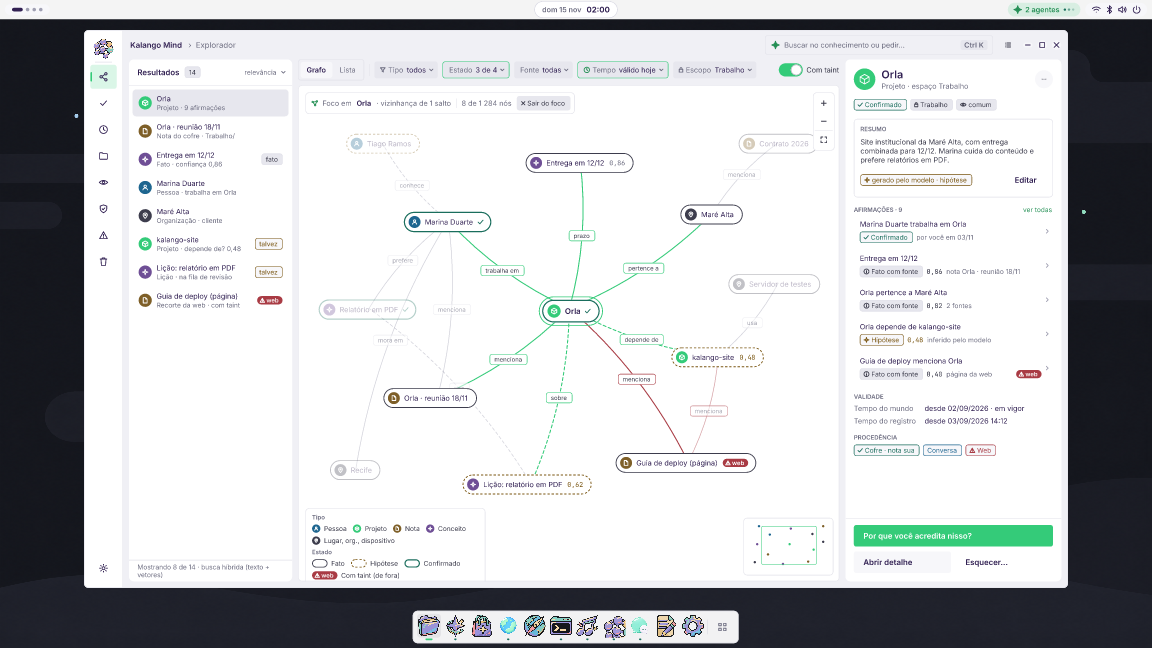
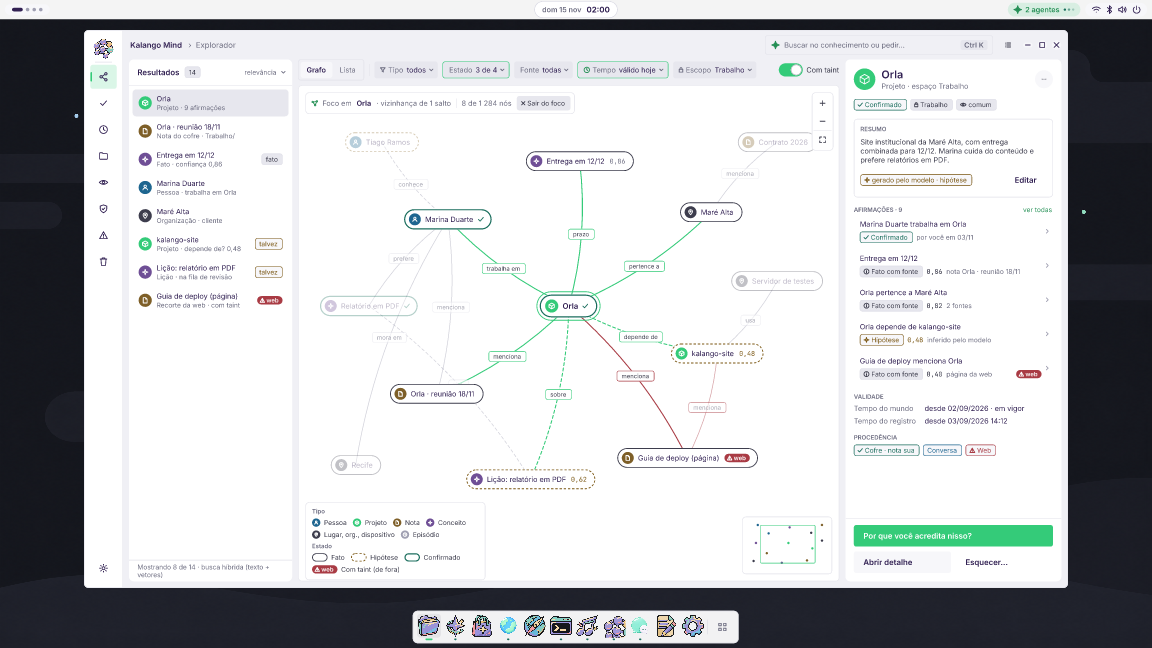
Kalango Mind: página completa (estreitas, claro, princípios, grafo que se ajusta)
- Versões estreitas que faltavam: quarentena, fila "aprovado na memória",
  estados indexando e modelo ausente, explorador com o nó de taint e a
  integração com o sistema (as quatro peças empilhadas em 480 px).
- Modo claro também para o inspetor de contexto, as permissões e os
  cinco estados (largos e estreitos).
- Seção Princípios de design com seis cartões.
- Grafo e linhas do tempo acompanham o redimensionamento: cada nó num
  encaixe com a restrição "escala" (o centro escala, o nó mantém o
  tamanho), arestas e faixas escalam, zoom, legenda e minimapa presos às
  bordas; o canvas nasce no tamanho de projeto e passa a preencher depois
  que os filhos existem. Conferido encolhendo cópias das janelas.
- Os três fluxos refeitos com os novos grafos e religados (cada um volta
  ao início com um clique); percorridos no modo de apresentação.
- PNGs exportados de novo (82 quadros, escala 0,6), manifesto, README e
  CHANGELOG.

Claude-Session: https://claude.ai/code/session_01PnMUTCiwfEJNtrnhy9s5yP

diff --git a/CHANGELOG.md b/CHANGELOG.md
@@ -2,7 +2,7 @@
 
 ## Unreleased
 
-- Kalango Mind (nome provisório): página `39 · Kalango Mind`, uma só página em seções como as do Train e do Cast (base e explorador, detalhe do nó, "por que você acredita nisso?", fila de revisão e quarentena, linha do tempo de um fato, cofre do Obsidian, inspetor de contexto, permissões por agente, esquecer e exportar, ajustes, primeiro uso e integração, estados, movimento e três fluxos de protótipo, modo claro); componente `app/Kalango Mind` na página 02; ícone em `icones/kalango-mind.png`, `icones/128/`, `icones/svg/` e `icones/fonte/`; PNGs em `exports/vitrine/39-Kalango_Mind/`.
+- Kalango Mind (nome provisório): página `39 · Kalango Mind`, uma só página em seções como as do Train e do Cast (base e explorador, detalhe do nó, "por que você acredita nisso?", fila de revisão e quarentena, linha do tempo de um fato, cofre do Obsidian, inspetor de contexto, permissões por agente, esquecer e exportar, ajustes, primeiro uso e integração, estados, movimento e três fluxos de protótipo, princípios de design, modo claro), com largo e estreito em todas as telas; grafo e linhas do tempo que acompanham o redimensionamento; componente `app/Kalango Mind` na página 02; ícone em `icones/kalango-mind.png`, `icones/128/`, `icones/svg/` e `icones/fonte/`; PNGs em `exports/vitrine/39-Kalango_Mind/`.
 - Kalango Train: página `38 · Kalango Train` do Design System, uma só página em seções como a do Cast (base e primeiro uso, consentimento e aprovação, promoção de modelo, rastros, curadoria, compor trabalho, execução, avaliações e exportação, backends remotos, ajustes e ambiente, laboratório e linha do tempo, movimento, fluxos animados e microinterações, princípios de design e modo claro). Larguras largo (1640 px) e estreito (480 px), estados vazio, carregando, erro e sucesso, versões em modo claro das telas principais. Novos componentes: selo de estado, selo de procedência, cartão de métrica, cartão de curva, nó do pipeline, ícones database, tree, restore, gauge e pencil, e `app/Kalango Train`.
 - Fonte `KalangoOS-DesignSystem.figcraft` publicada (Git LFS).
 - Vitrine inicial em `exports/vitrine/` (Capa, Fundamentos, Marca, Site).

diff --git a/README.md b/README.md
@@ -59,7 +59,10 @@ As telas do Kalango Mind (nome provisório; a memória e o conhecimento dos agen
 | Primeiro uso e integração | Escolher o cofre, importar a Memória atual; Agentes › Memória, chip "por quê?", aviso "Lembrado", ilha de atividade |
 | Estados | Vazio, indexando, motor desligado, erro, modelo ausente |
 | Movimento e fluxos animados | Molas do DS e três fluxos de protótipo: por quê, aprovar na memória, esquecer |
-| Modo claro | Versões em modo claro das telas principais |
+| Princípios de design | A pessoa decide o que vira verdade, o porquê sempre à vista, o que veio de fora marcado, esquecer de verdade, tudo local e embutido, rápido e fluido |
+| Modo claro | Versões em modo claro das telas principais (inclusive contexto, permissões e estados) |
+
+O grafo e as linhas do tempo acompanham o tamanho da janela: cada nó fica num encaixe com a restrição "escala" (o centro escala e o nó mantém o tamanho), as arestas e as faixas escalam, e zoom, legenda e minimapa ficam presos às bordas.
 
 ## Como contribuir
 
